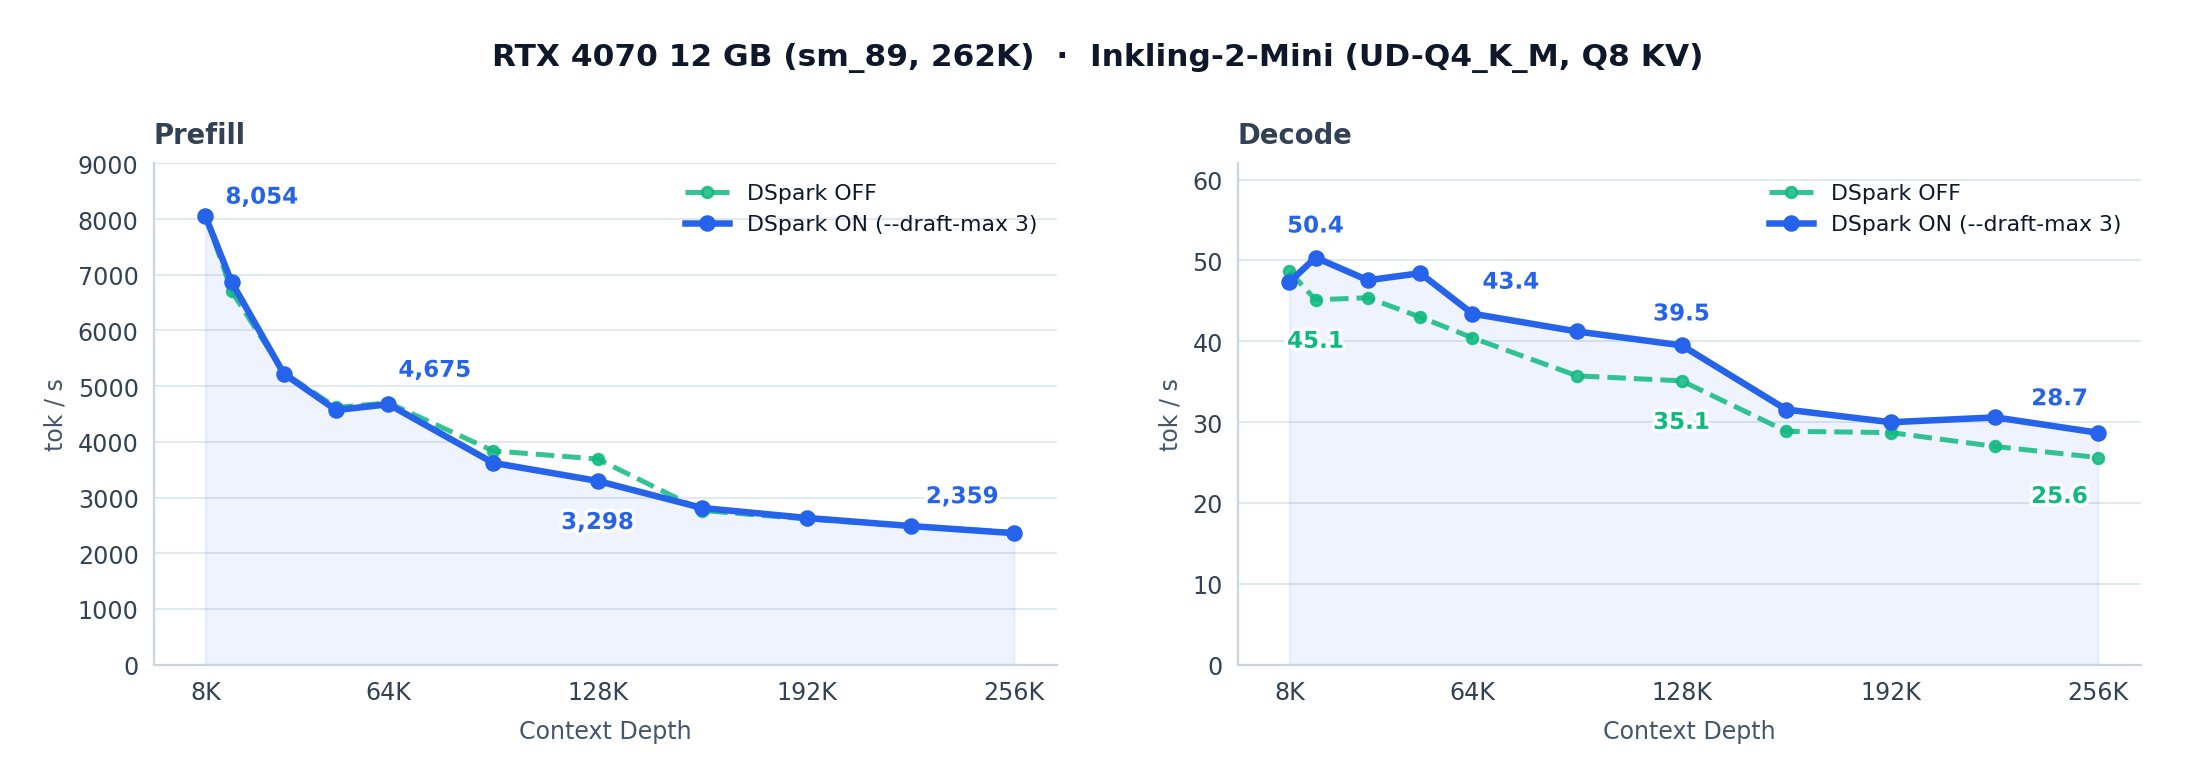
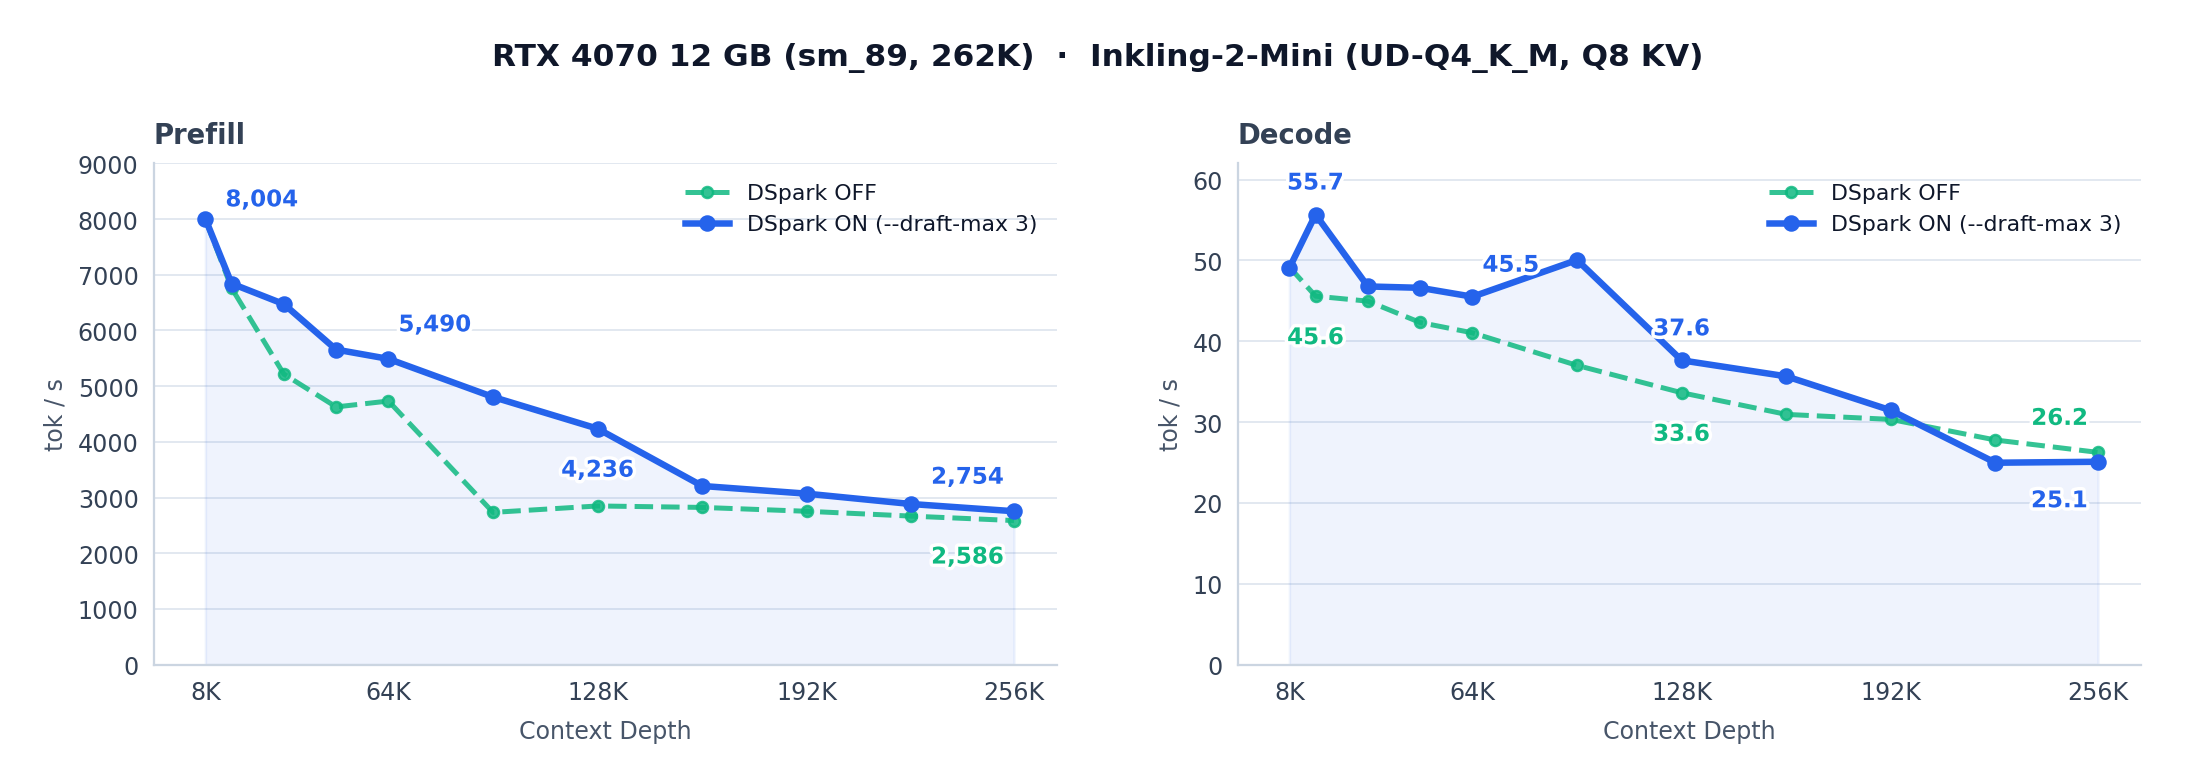
inkling2: smooth 96K-256K prefill with 7-step KV ladder & partial-core T=4096

diff --git a/README.md b/README.md
@@ -23,7 +23,7 @@ It runs **65K–262K** context on a single **12 GB consumer GPU (RTX 4070)** and
 
 - **Zero-knob automatic tuning (`SM arch × VRAM regime`)** — Choose `--max-context` (and optionally `--draft` for DSpark). The engine inspects the GPU architecture and live free VRAM to select the verified chunk size, KV allocation policy, staging budget, FA2 split-K width, and CUDA Graph mode via [profile_rules.hpp](engine/include/strata/inkling2/profile_rules.hpp).
 - **Zero quantization / precision compromises** — Native `UD-Q4_K_M` weights and `Q8` KV cache (`--kv-q8`), verified for 64/64 greedy token parity across optimization rounds.
-- **Fast on both 12 GB hybrid and 32 GB full-VRAM GPUs** — On RTX 4070 12 GB, a single `--max-context 262144` run on real C++/CUDA code reaches **`8,054–8,072 t/s` prefill** at `8K` and sustains **`50.4 t/s`** (`16K`), **`43.4 t/s`** (`64K`), **`39.5 t/s`** (`128K`), and **`28.7 t/s`** (`256K`) steady decode with **DSpark ON** + dynamic offload/reload (`+4.5%` to `+15.4%` faster than DSpark OFF from `16K`–`256K`). On V100 32 GB (GPU 0, ECC Off), all 3,072 experts fit in VRAM up to 819K with DSpark (`135–167 t/s` decode at 64K–256K, `109.5 t/s` at 512K, `89.9 t/s` at 800K, `192.8 t/s` at 512).
+- **Fast on both 12 GB hybrid and 32 GB full-VRAM GPUs** — On RTX 4070 12 GB, a single `--max-context 262144` run on real C++/CUDA code reaches **`7,994–8,005 t/s` prefill** at `8K` (`5,490` at `64K`, `4,236` at `128K`, **`2,754 t/s`** cumulative at `256K`) and sustains **`55.7 t/s`** (`16K`), **`45.5 t/s`** (`64K`), **`37.6 t/s`** (`128K`), **`35.7 t/s`** (`160K`), and **`25.1–26.2 t/s`** (`256K`) steady decode with **DSpark ON** / **OFF** dynamic phase-split offload/reload. On V100 32 GB (GPU 0, ECC Off), all 3,072 experts fit in VRAM up to 819K with DSpark (`135–167 t/s` decode at 64K–256K, `109.5 t/s` at 512K, `89.9 t/s` at 800K, `192.8 t/s` at 512).
 - **Drop-in OpenAI & Anthropic API** — Works directly with Claude Code, Codex CLI, OpenCode, and other local coding agents, plus upstream Strata's Qwen3.8-Flash-Next and Qwen3.6-35B-A3B engines.
 
 ## Supported Hardware & Auto-Profiles
@@ -34,7 +34,7 @@ The profile selector separates **SM architecture** (`sm70`, `sm89`, `generic`) f
 | --- | ---: | --- | ---: | --- | --- |
 | **RTX 4070 12 GB** (`sm_89`) | `65536` | `sm89 + core_resident_hybrid` | `4096` (adapt. `<= 8192`) | Dynamic `16K → 36K → 65K` | `tier1` 100%, Phase-Split compaction |
 | **RTX 4070 12 GB** (`sm_89`) | `131072` | `sm89 + core_resident_hybrid` | `4096` (adapt. `<= 8192`) | Dynamic `16K → 36K → 69K → 131K` | `tier1` 100%, Phase-Split compaction |
-| **RTX 4070 12 GB** (`sm_89`) | `262144` | `sm89 + tight_hybrid` | `2048` (adapt. `<= 12288`) | Dynamic `16K → 36K → 69K → 139K → 262K` | Adaptive eviction (`75.0%` hit @ 262K) |
+| **RTX 4070 12 GB** (`sm_89`) | `262144` | `sm89 + tight_hybrid` | `2048` (adapt. `<= 12288`, `4096` w/ Core borrow) | Dynamic `16K → 36K → 69K → 102K → 139K → 172K → 204K → 262K` | Adaptive eviction (`66.9%–68.0%` hit @ 262K; `84.6%–85.5%` @ 128K) |
 | **Tesla V100 32 GB** (`sm_70`) | `819200` (+ DSpark) | `sm70 + full_vram` | `1024` | Upfront `819K` | `3,072 / 3,072` (`100%` VRAM, `916 MiB` free) |
 | **Tesla V100 32 GB** (`sm_70`) | `1048576` | `sm70 + core_resident_hybrid` | `1024` | Dynamic | `2,897 / 3,072` (`tier1` 100%) |
 
@@ -54,15 +54,17 @@ Apples-to-apples real tokenized C++/CUDA code context ladder (`--max-context 262
 
 | Context Depth | DSpark ON (`--draft-max 3`) Prefill | DSpark ON Decode | DSpark OFF Prefill | DSpark OFF Decode | GPU Hit (ON / OFF) |
 | ---: | ---: | ---: | ---: | ---: | ---: |
-| `8K` (fresh) | **`8,053.6 t/s`** | `47.3 t/s` | **`8,071.9 t/s`** | **`48.6 t/s`** | `85.4%` / `85.5%` |
-| `16K` | **`6,869.8 t/s`** | **`50.4 t/s`** | `6,706.3 t/s` | `45.1 t/s` | `85.4%` / `85.5%` |
-| `32K` | `5,222.7 t/s` | **`47.6 t/s`** | **`5,241.2 t/s`** | `45.4 t/s` | `85.4%` / `85.5%` |
-| `64K` | `4,674.8 t/s` | **`43.4 t/s`** | `4,699.6 t/s` | `40.4 t/s` | `85.3%` / `85.5%` |
-| `128K` | `3,297.7 t/s` | **`39.5 t/s`** | `3,691.3 t/s` | `35.1 t/s` | `86.8%` / `85.5%` |
-| `160K` | `2,811.8 t/s` | **`31.6 t/s`** | `2,766.0 t/s` | `28.9 t/s` | `72.3%` / `72.3%` |
-| `256K` (`261.5K`) | `2,359.2 t/s` | **`28.7 t/s`** | `2,370.6 t/s` | `25.6 t/s` | `72.7%` / `71.7%` |
+| `8K` (fresh) | **`8,004.5 t/s`** | `49.1 t/s` | `7,993.5 t/s` | **`49.2 t/s`** | `85.4%` / `85.5%` |
+| `16K` | **`6,842.5 t/s`** | **`55.7 t/s`** | `6,762.3 t/s` | `45.6 t/s` | `85.4%` / `85.5%` |
+| `32K` | **`6,473.6 t/s`** | **`46.8 t/s`** | `5,216.9 t/s` | `45.0 t/s` | `85.4%` / `85.5%` |
+| `64K` | **`5,489.6 t/s`** | **`45.5 t/s`** | `4,732.9 t/s` | `41.0 t/s` | `85.3%` / `85.5%` |
+| `96K` | **`4,805.0 t/s`** | **`50.1 t/s`** | `2,732.8 t/s` | `37.0 t/s` | `85.4%` / `86.2%` |
+| `128K` | **`4,236.0 t/s`** | **`37.6 t/s`** | `2,848.1 t/s` | `33.6 t/s` | `84.6%` / `85.5%` |
+| `160K` | **`3,207.2 t/s`** | **`35.7 t/s`** | `2,822.1 t/s` | `31.0 t/s` | `73.4%` / `84.7%` |
+| `192K` | **`3,068.8 t/s`** | **`31.5 t/s`** | `2,752.7 t/s` | `30.3 t/s` | `72.3%` / `78.1%` |
+| `256K` (`261.5K`) | **`2,753.7 t/s`** | `25.1 t/s` | `2,586.2 t/s` | **`26.2 t/s`** | `66.9%` / `68.0%` |
 
-> **Why DSpark ON preserves Prefill and wins `16K–256K` Decode**: With Phase-Split dynamic offload/reload (`357.8 MiB` async pool transfer), DSpark weights are evicted before `pp_streaming` so initial `8K` prefill stays **`>8,050 t/s`**, then restored asynchronously for decode where speculative verification beats DSpark OFF across the entire `16K–256K` sweep (**`28.7` vs `25.6 t/s` at 256K**, **`+12.0%`**; on `131K`, **`39.2` vs `32.4 t/s`**, **`+21.2%`**). Zero precision degradation (`64/64` parity on both DSpark OFF & ON).
+> **Why DSpark ON preserves Prefill and boosts `16K–192K` Decode**: With Phase-Split dynamic offload/reload (`357.8 MiB` async pool transfer), a finer 7-step KV ladder (`16K → 36K → 69K → 102K → 139K → 172K → 204K → 262K`), and adaptive `T=4096` prefill up to `256K` (borrowing only non-resident Core headroom above `64/128` slots/layer), `8K` prefill stays **`>8,000 t/s`**, `96K–256K` cumulative prefill improves **`+16.7%` to `+32.6%`** (`2,753.7 t/s` at `256K` DSpark ON; `2,586.2 t/s` DSpark OFF), and speculative verification beats DSpark OFF across `16K–192K` (**`55.7` vs `45.6 t/s`** at `16K`, **`35.7` vs `31.0 t/s`** at `160K`, **`31.5` vs `30.3 t/s`** at `192K`; on `131K`, **`36.4` vs `34.9 t/s`** and **`4,155.4` vs `3,408.3 t/s`** cum. PP). Zero precision degradation (`64/64` parity on both DSpark OFF & ON).
 
 Full RTX 4070 progression & CSV data: [2026-11-22 RTX 4070 262K Report](docs/bench-results/2026-11-22-rtx4070-inkling2-262k/README.md).
 
